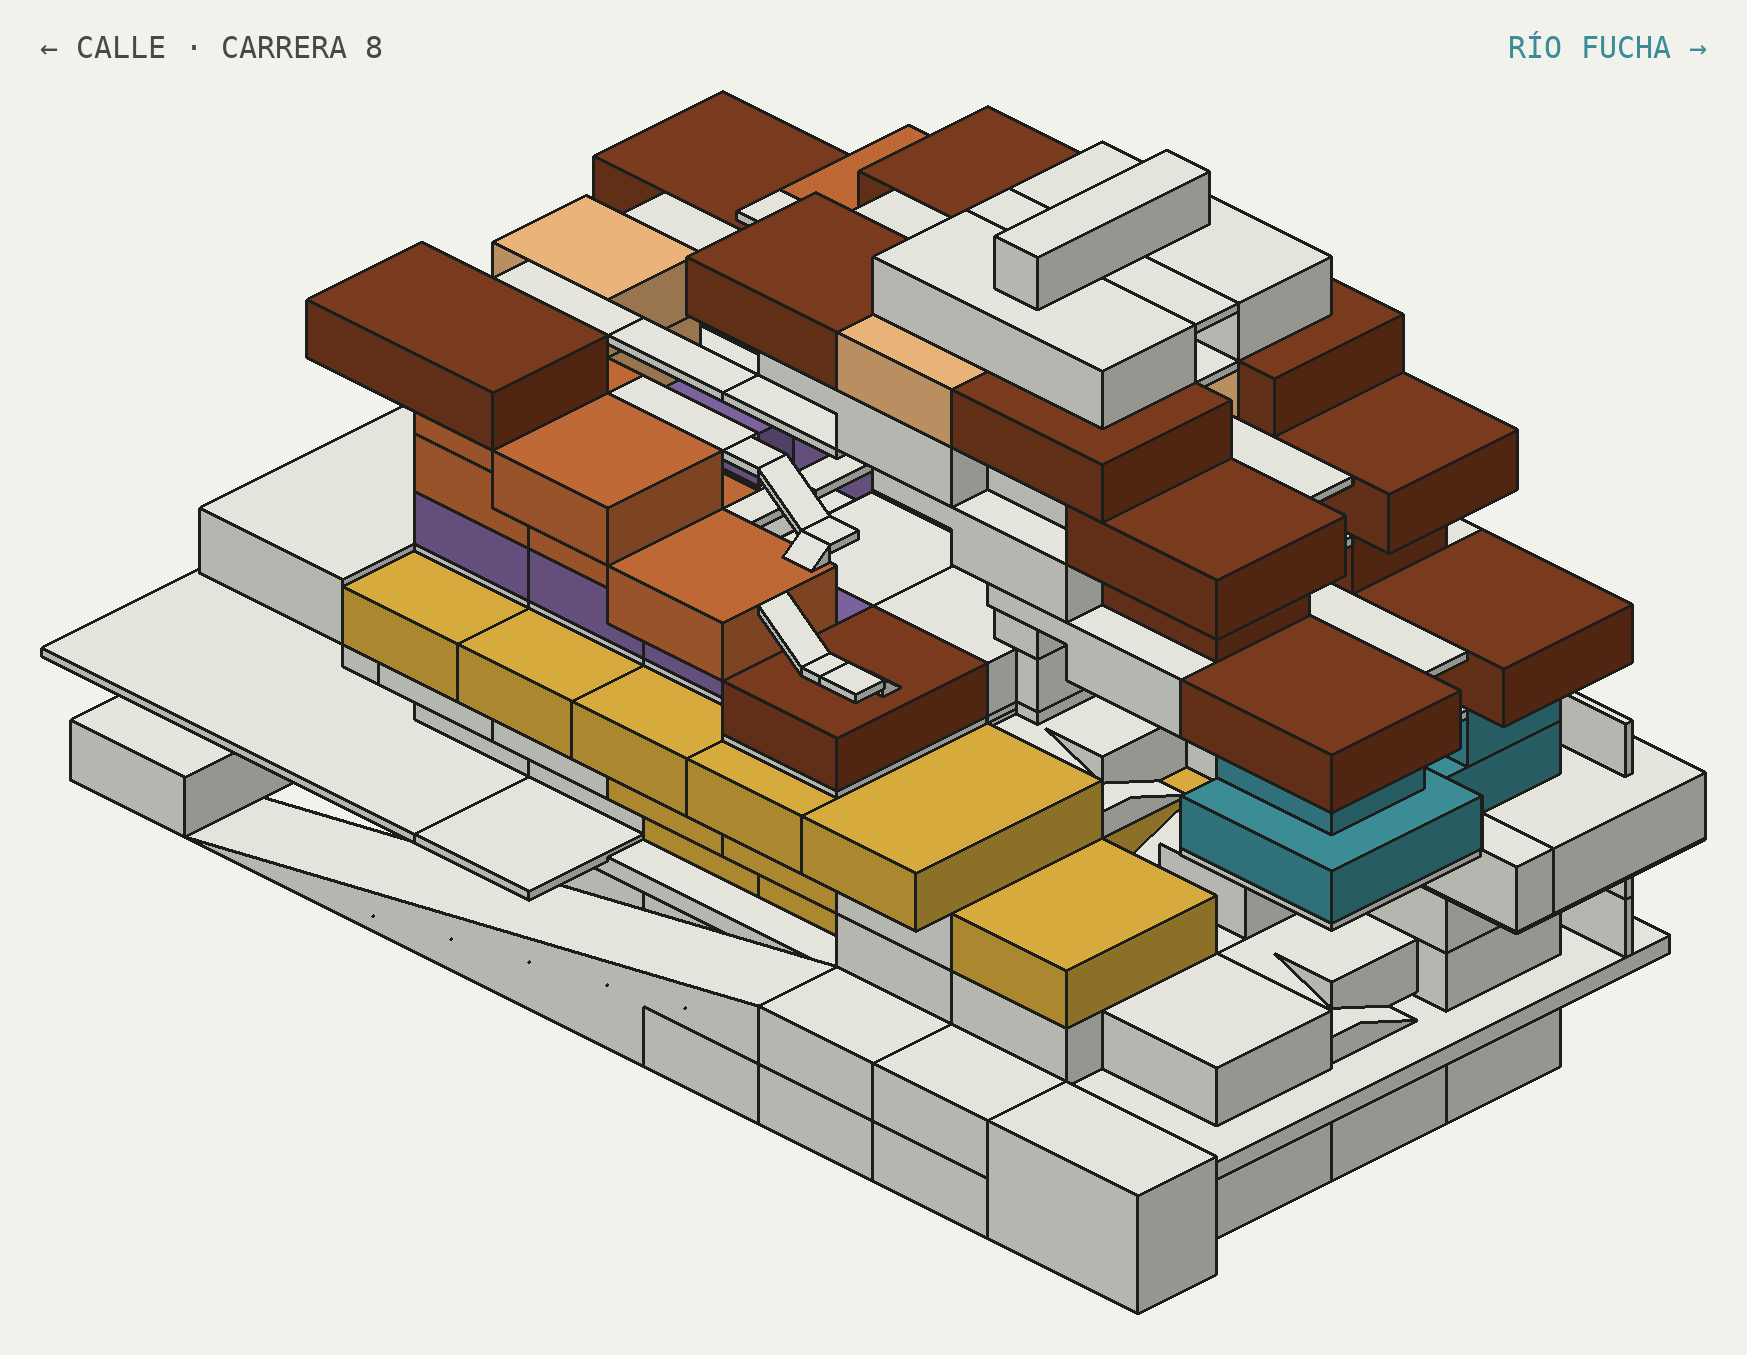
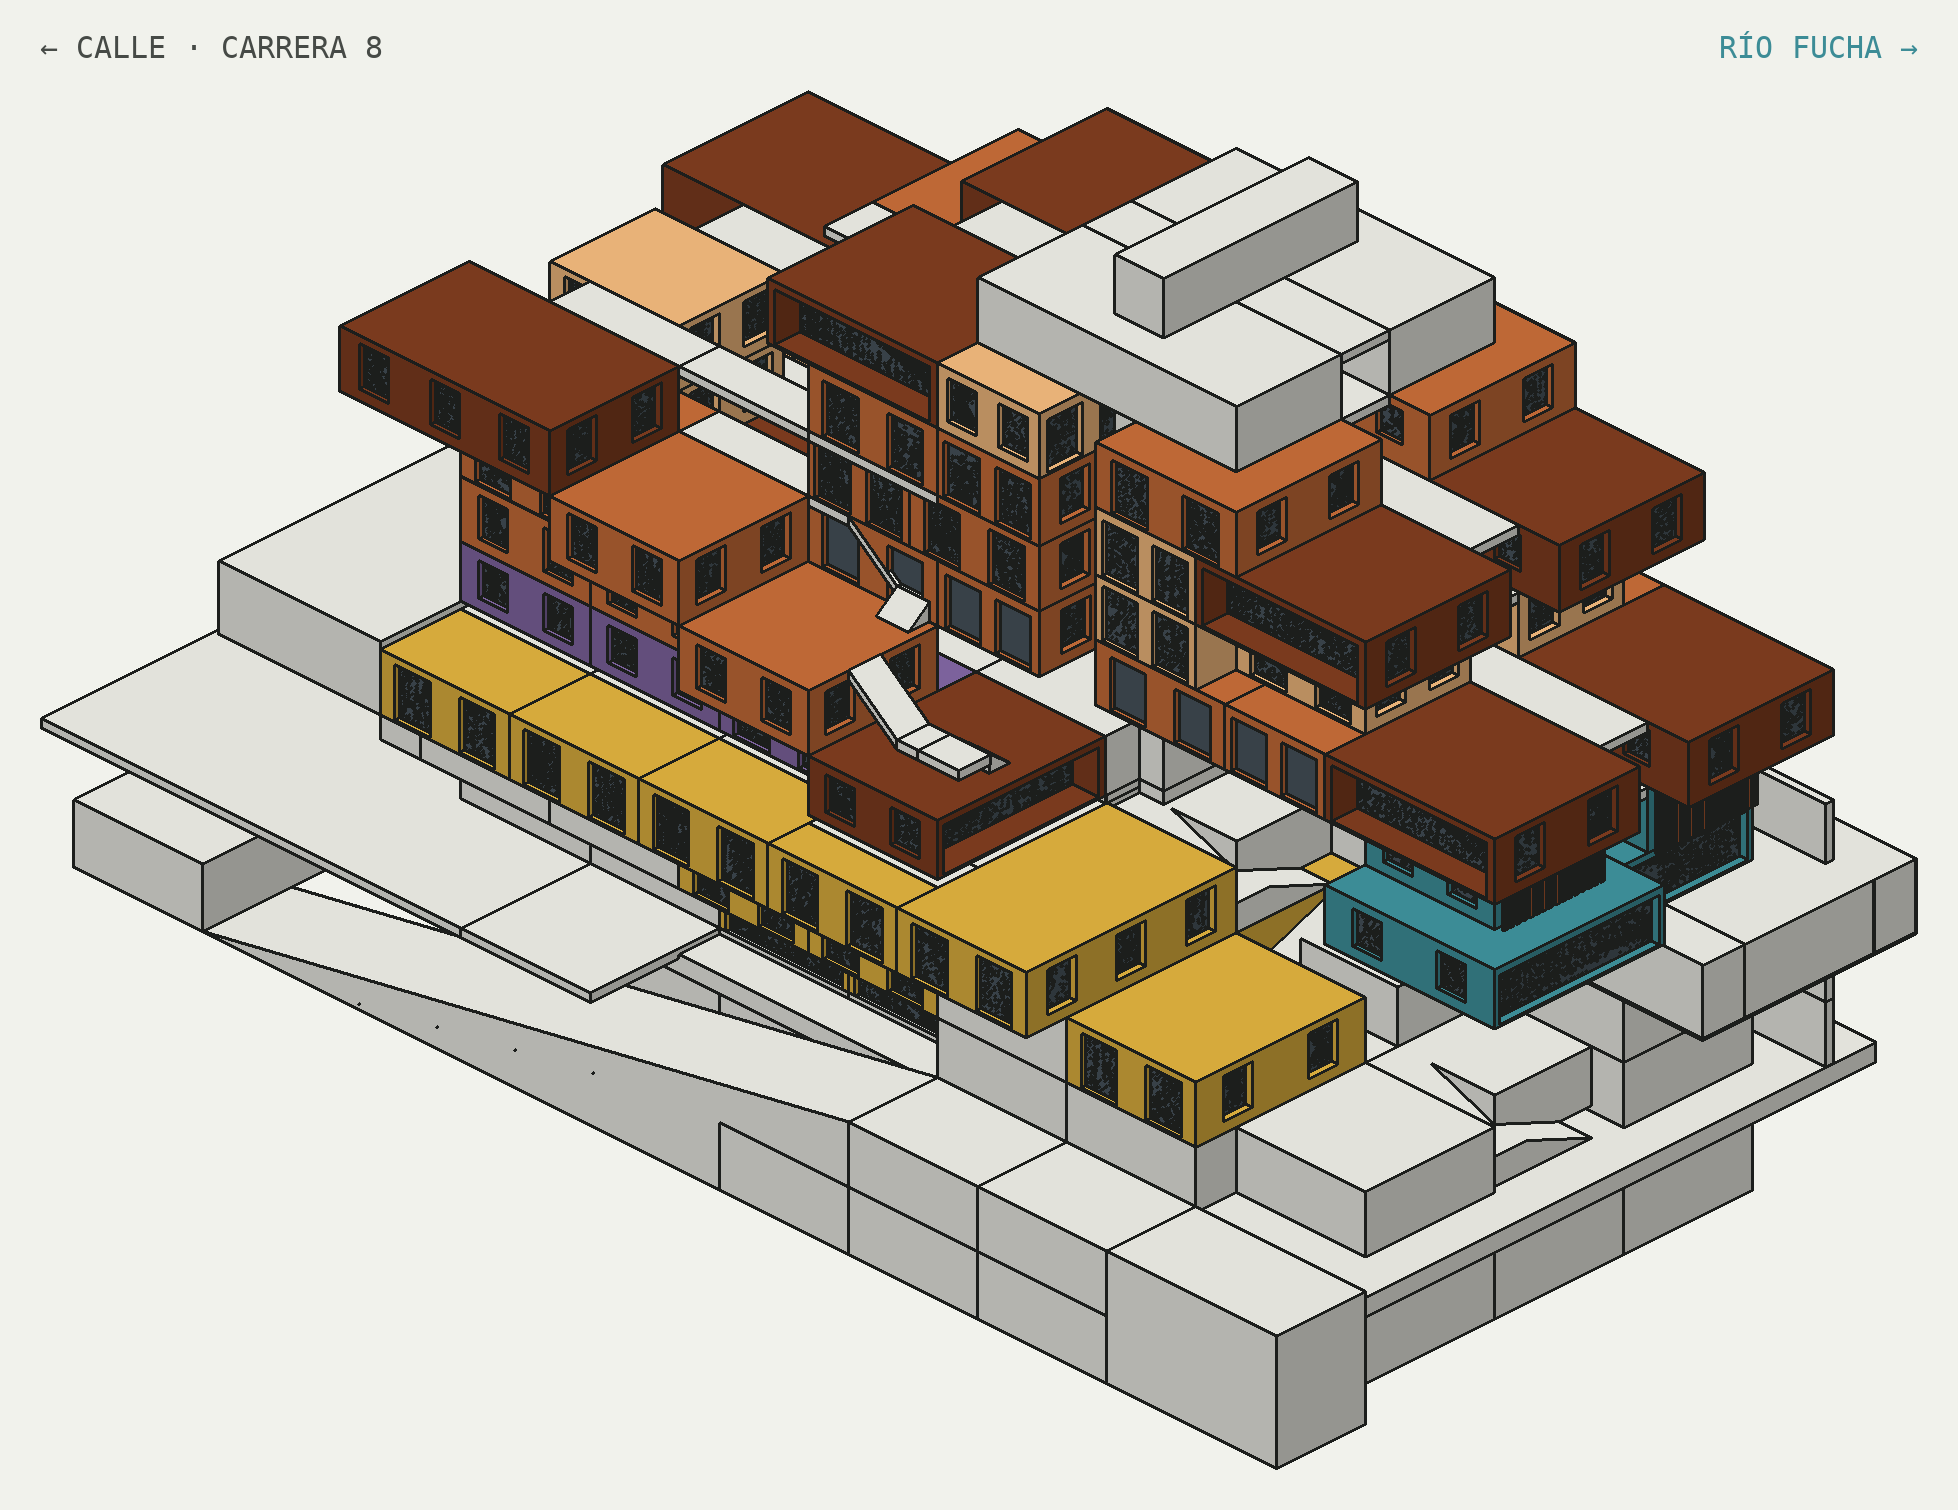
La Ola: tipologías asignadas con vanos y núcleo libre
Claude-Session: https://claude.ai/code/session_01Rs9TY9ki2YSVtRsSTGuvtX

diff --git a/la-ola/index.html b/la-ola/index.html
@@ -271,9 +271,9 @@ footer{border-top:1px solid var(--rule);padding-top:16px;display:flex;flex-wrap:
       <figure class="plano"><img src="img/aptos/tipo-E2.svg" alt="Dúplex hacia el río, piso 2: dos alcobas, baño y estudio detrás de una jardinera y una celosía de ladrillo"><figcaption><b>E · piso 2</b> · alcobas detrás de una celosía de ladrillo · 128 m² en total</figcaption></figure>
     </div>
     <figure class="plano"><img src="img/aptos/tipo-F.svg" alt="Vivienda productiva, nivel de calle: taller o tienda con vitrina, baño y escalera privada a la casa"><figcaption><b>F · vivienda productiva</b> · taller o tienda a la calle y la casa encima (tipo B)</figcaption></figure>
-    <figure class="plano asig"><img src="img/aptos/asignacion.png" alt="Axonometría de La Ola con cada módulo coloreado según su tipología: dúplex hacia el río Fucha, viviendas productivas hacia la calle, adulto mayor en el primer piso de vivienda y familias en los módulos grandes">
-      <figcaption><b>Dónde va cada uno</b> · ≈ 50 viviendas · vista desde la esquina del río y la calle</figcaption>
-      <div class="leyenda"><span><i style="background:#E8B278"></i>A · 11</span><span><i style="background:#BE6836"></i>B · 7</span><span><i style="background:#7C629C"></i>C · 10</span><span><i style="background:#7A3A1E"></i>D · 13</span><span><i style="background:#3C8C96"></i>E · 3 dúplex</span><span><i style="background:#D6AA3C"></i>F · 5</span></div>
+    <figure class="plano asig"><img src="img/aptos/asignacion.png" alt="Axonometría de La Ola con cada apartamento coloreado según su tipología y sus ventanas abiertas: dúplex hacia el río Fucha, viviendas productivas hacia la calle, adulto mayor en el primer piso de vivienda y familias en los módulos grandes">
+      <figcaption><b>Dónde va cada uno</b> · ≈ 69 viviendas · el núcleo y el corredor quedan libres en todos los pisos · vista desde la esquina del río y la calle</figcaption>
+      <div class="leyenda"><span><i style="background:#E8B278"></i>A · 16</span><span><i style="background:#BE6836"></i>B · 28</span><span><i style="background:#7C629C"></i>C · 7</span><span><i style="background:#7A3A1E"></i>D · 10</span><span><i style="background:#3C8C96"></i>E · 3 dúplex</span><span><i style="background:#D6AA3C"></i>F · 5</span></div>
     </figure>
     <div class="tabla"><table>
       <thead><tr><th>Tipo</th><th>Módulo</th><th>Área</th><th>Para quién</th><th>Referente</th></tr></thead>
